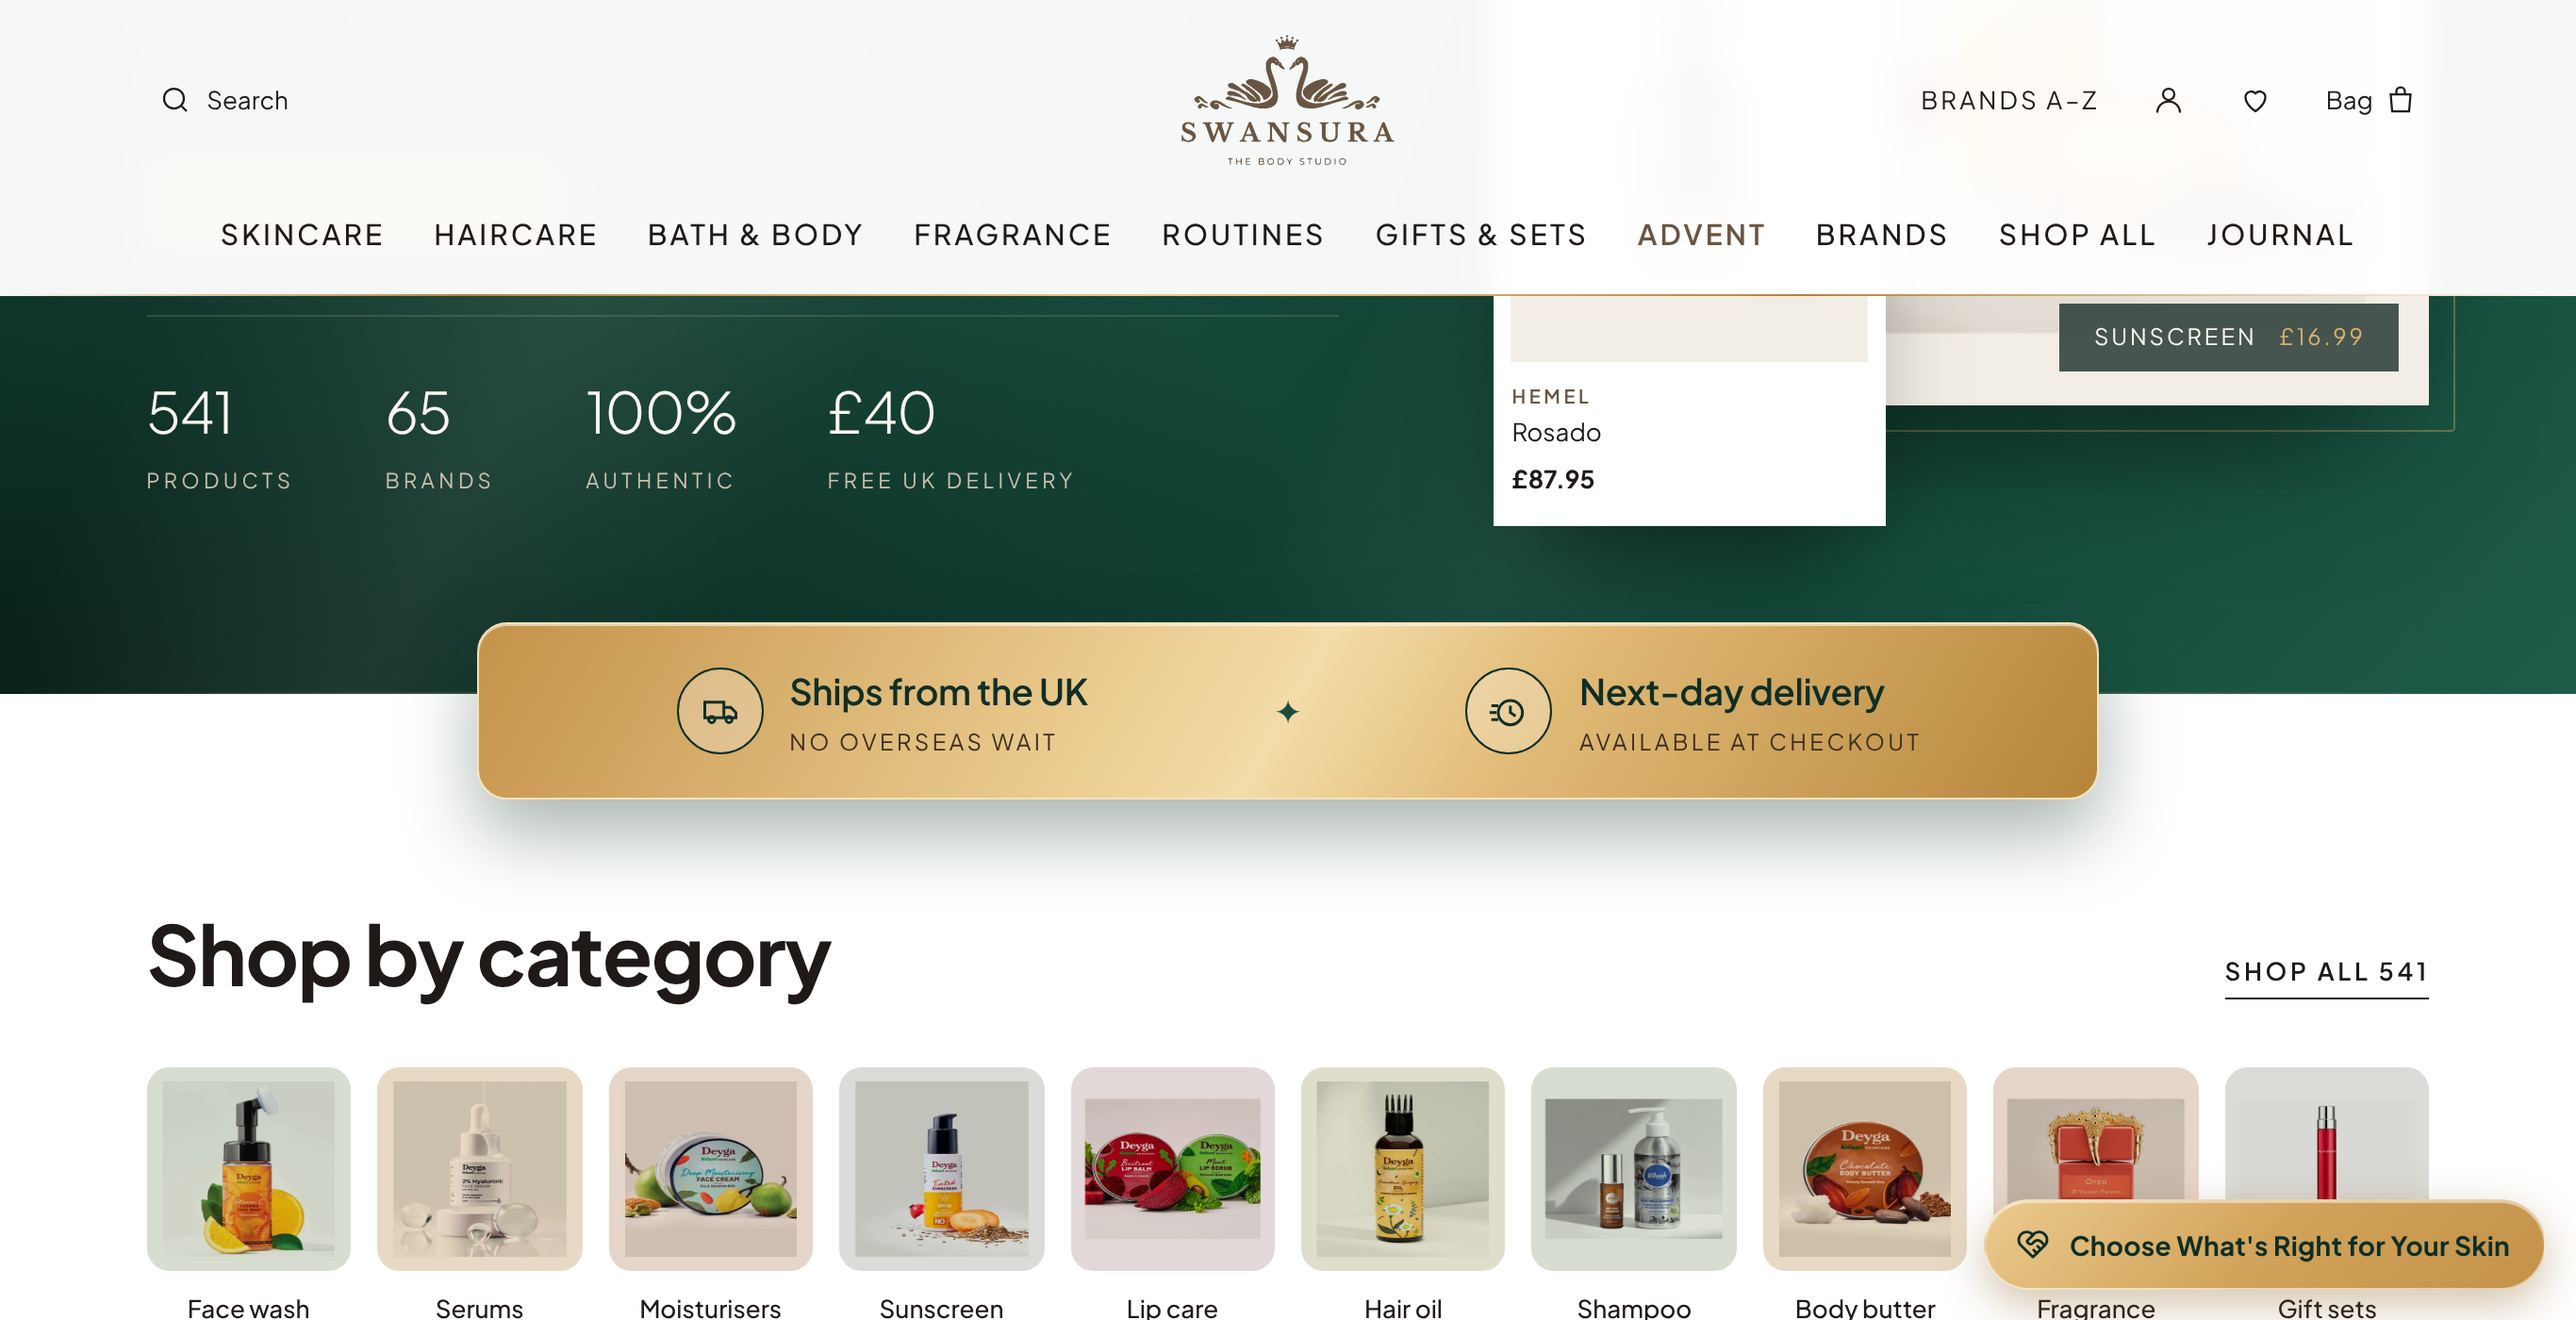
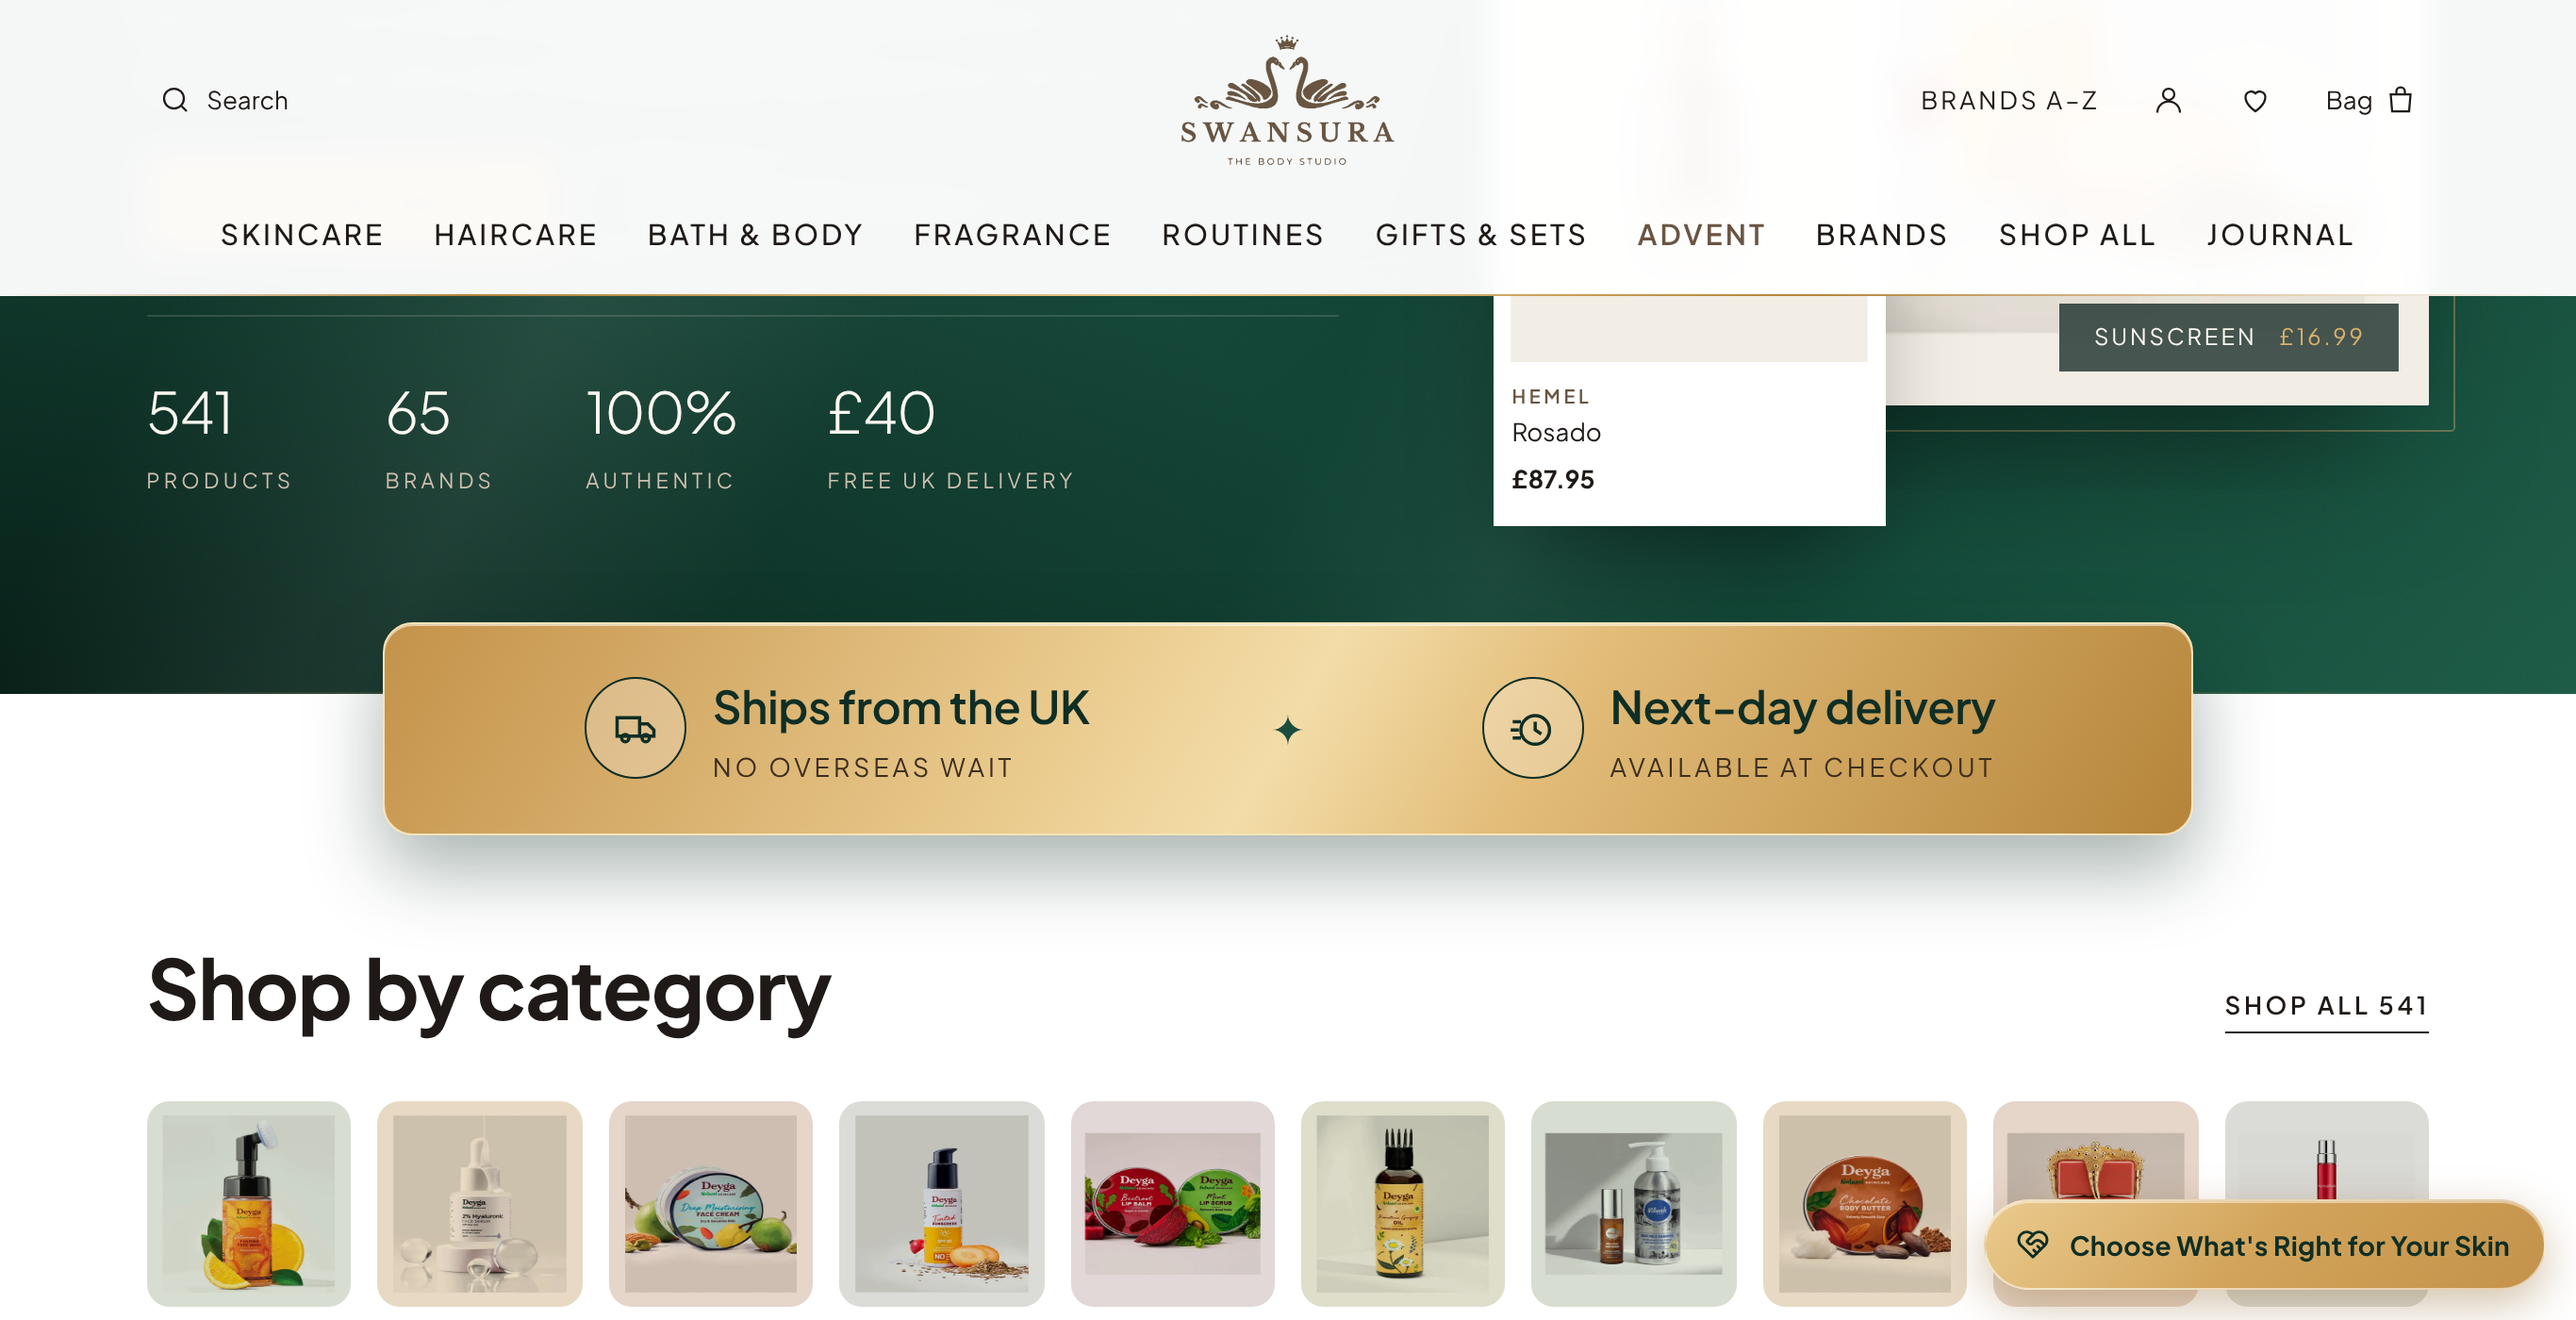
Prototype: larger text on the desktop gold USP card
Claude-Session: https://claude.ai/code/session_01S2g112JF6CCLo8Tg7CRZKC

Changed region(s): [[0.0311, 0.6757, 0.9645, 1.0], [0.1245, 0.4607, 0.8712, 0.6757], [0.8712, 0.7371, 0.9334, 0.7679]]

diff --git a/prototype/index.html b/prototype/index.html
@@ -42,6 +42,8 @@
 .usp-a{background:linear-gradient(120deg,#C4924A 0%,#EACB8E 38%,#F3DCA8 50%,#E2BC78 64%,#B5843A 100%);border:1px solid #F6E3B8;box-shadow:0 18px 40px rgba(8,40,30,.35),inset 0 1px 0 rgba(255,255,255,.55);color:#0F2E25}
 .usp-a .ic{border-color:#0F2E25;color:#0F2E25;background:rgba(255,255,255,.25)}
 .usp-a b{color:#0F2E25}.usp-a small{color:#3D2F1E}.usp-a .star{color:#1B4D3E}
+
+@media (min-width:601px){.usp-a{width:min(960px,calc(100% - 32px));padding:24px 32px}.usp-a b{font-size:24px}.usp-a small{font-size:13.5px;letter-spacing:.14em}.usp-a .ic{width:54px;height:54px}.usp-a .ic svg{width:26px;height:26px}.usp-a .star{font-size:22px}}
 </style></head><body>
 <title>Swansura Website Prototype</title>
 <link rel="preload" href="products.json" as="fetch" crossorigin="anonymous">
